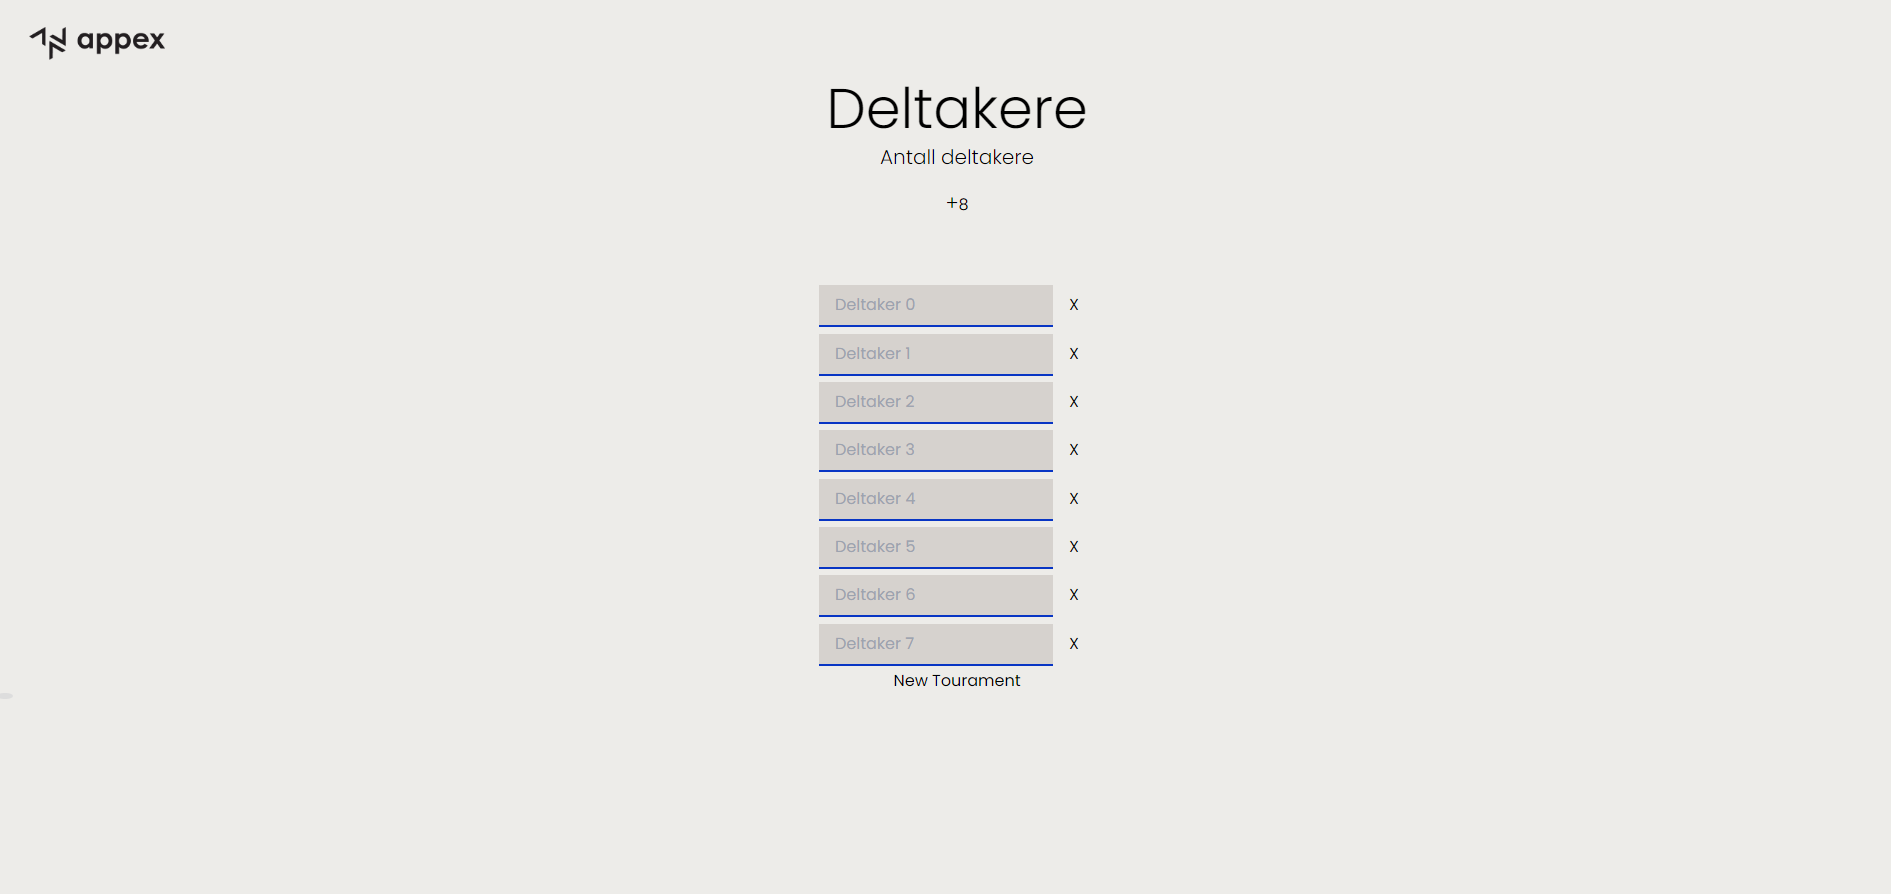
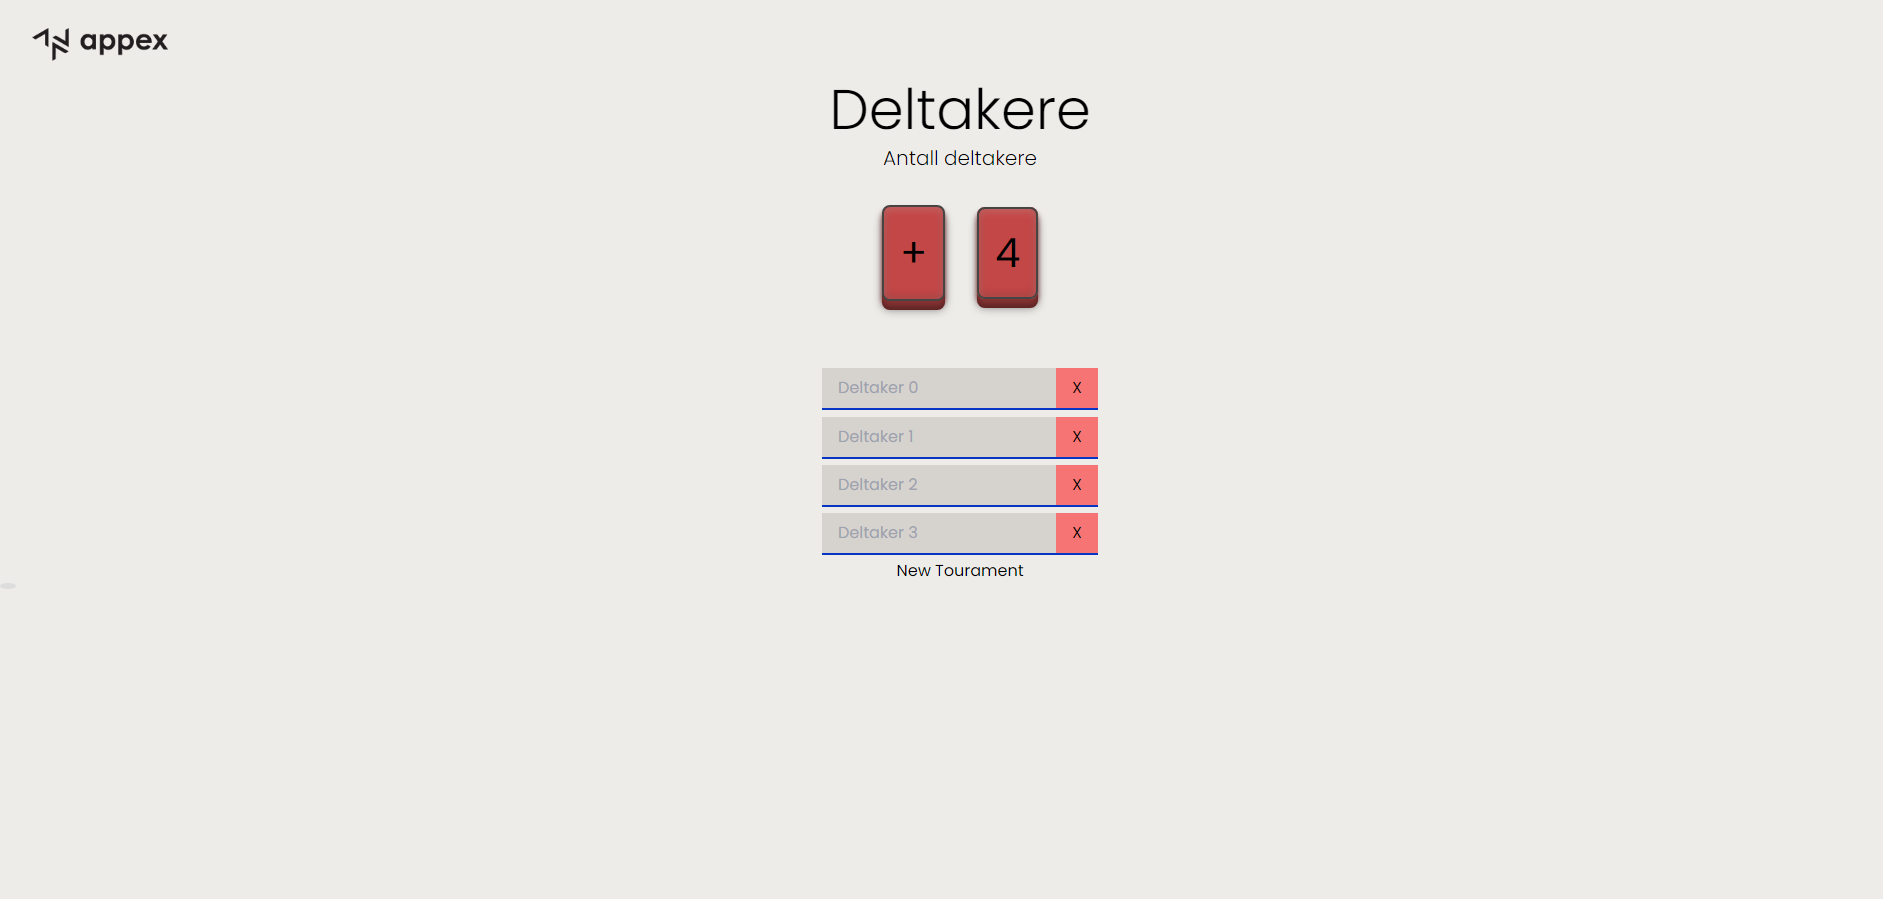
la til input validation

Changed region(s): [[0.4312, 0.2114, 0.5852, 0.7852], [0.4312, 0.0906, 0.5852, 0.1812], [0.0, 0.0302, 0.0924, 0.0604]]

diff --git a/frontend/pages/newtournament.vue b/frontend/pages/newtournament.vue
@@ -4,12 +4,12 @@
       <div class="pg2-content-container">
         <div class="inputBox">
           <h1>Skriv inn navnet på tournamentet</h1>
-          <input v-model="tournament.name" type="text" id="tname" name="tname" placeholder="Tournament navn" maxlength = "69">
+          <input v-model="tournament.name" type="text" id="tname" name="tname" placeholder="Tournament navn" maxlength = "69" required>
           <span class="limiter">{{ 69 - tournament.name.length }} characters remaining</span>
         </div>
         <div class="inputBox">
           <h1>Tournament dato</h1>
-          <input v-model="tournament.date" type="date" id="tdate" name="tdate" placeholder="Dato">
+          <input v-model="tournament.date" type="date" id="tdate" name="tdate" placeholder="Dato" required>
         </div>
         <div class="pagebtn">
           <button class="next" @click="increasePage()"><img src="https://icons-for-free.com/iconfiles/png/512/arrow+right+chevron+chevronright+right+right+icon+icon-1320185732203239715.png" width="50px"/></button>
@@ -124,9 +124,13 @@ export default {
         
       },
       increasePage() {
-        if (this.page == 2) alert("aaaa")
-          
-        this.page += 1;
+        if (this.page == 2) return
+        if (this.tournament.name && this.tournament.date) {
+          this.page += 1;
+        } else {
+          alert('Name and/or date cannot be empty')
+        }
+        
       },
       decreasePage() {
           if (this.page == 0) return
